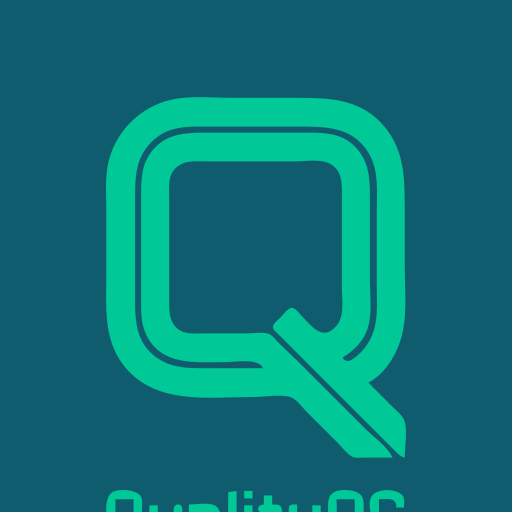
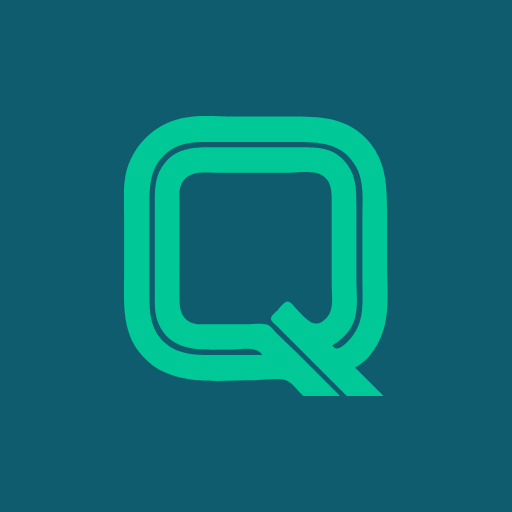
Ícono de la app con la Q limpia
El ícono traía el texto "QualityOS" chico debajo de la Q y en el celular se
veía cortado. Ahora es el isotipo recortado a la Q, centrado sobre el fondo
teal y dentro de la zona segura de los íconos adaptables de Android.
Regenera icon-192.png e icon-512.png y sube VERSION a qualityos-v8.

Claude-Session: https://claude.ai/code/session_01QdiX2Js46foUBQ2f2S9HZF

Changed region(s): [[0.1875, 0.1875, 0.8125, 0.9062], [0.3438, 0.9375, 0.8125, 1.0], [0.1875, 0.9375, 0.3125, 1.0]]

diff --git a/sw.js b/sw.js
@@ -1,7 +1,7 @@
 // Service worker: guarda la app para que abra sin señal en planta.
 // Estrategia "red primero": con señal siempre baja lo último; sin señal usa la copia.
 // Al cambiar cualquier archivo de la app, subí VERSION para que se renueve la copia.
-var VERSION = 'qualityos-v7';
+var VERSION = 'qualityos-v8';
 var ARCHIVOS = [
   './', './index.html', './manifest.json', './css/styles.css',
   './vendor/supabase.js', './js/config.js', './js/reglas.js', './js/store.js',
